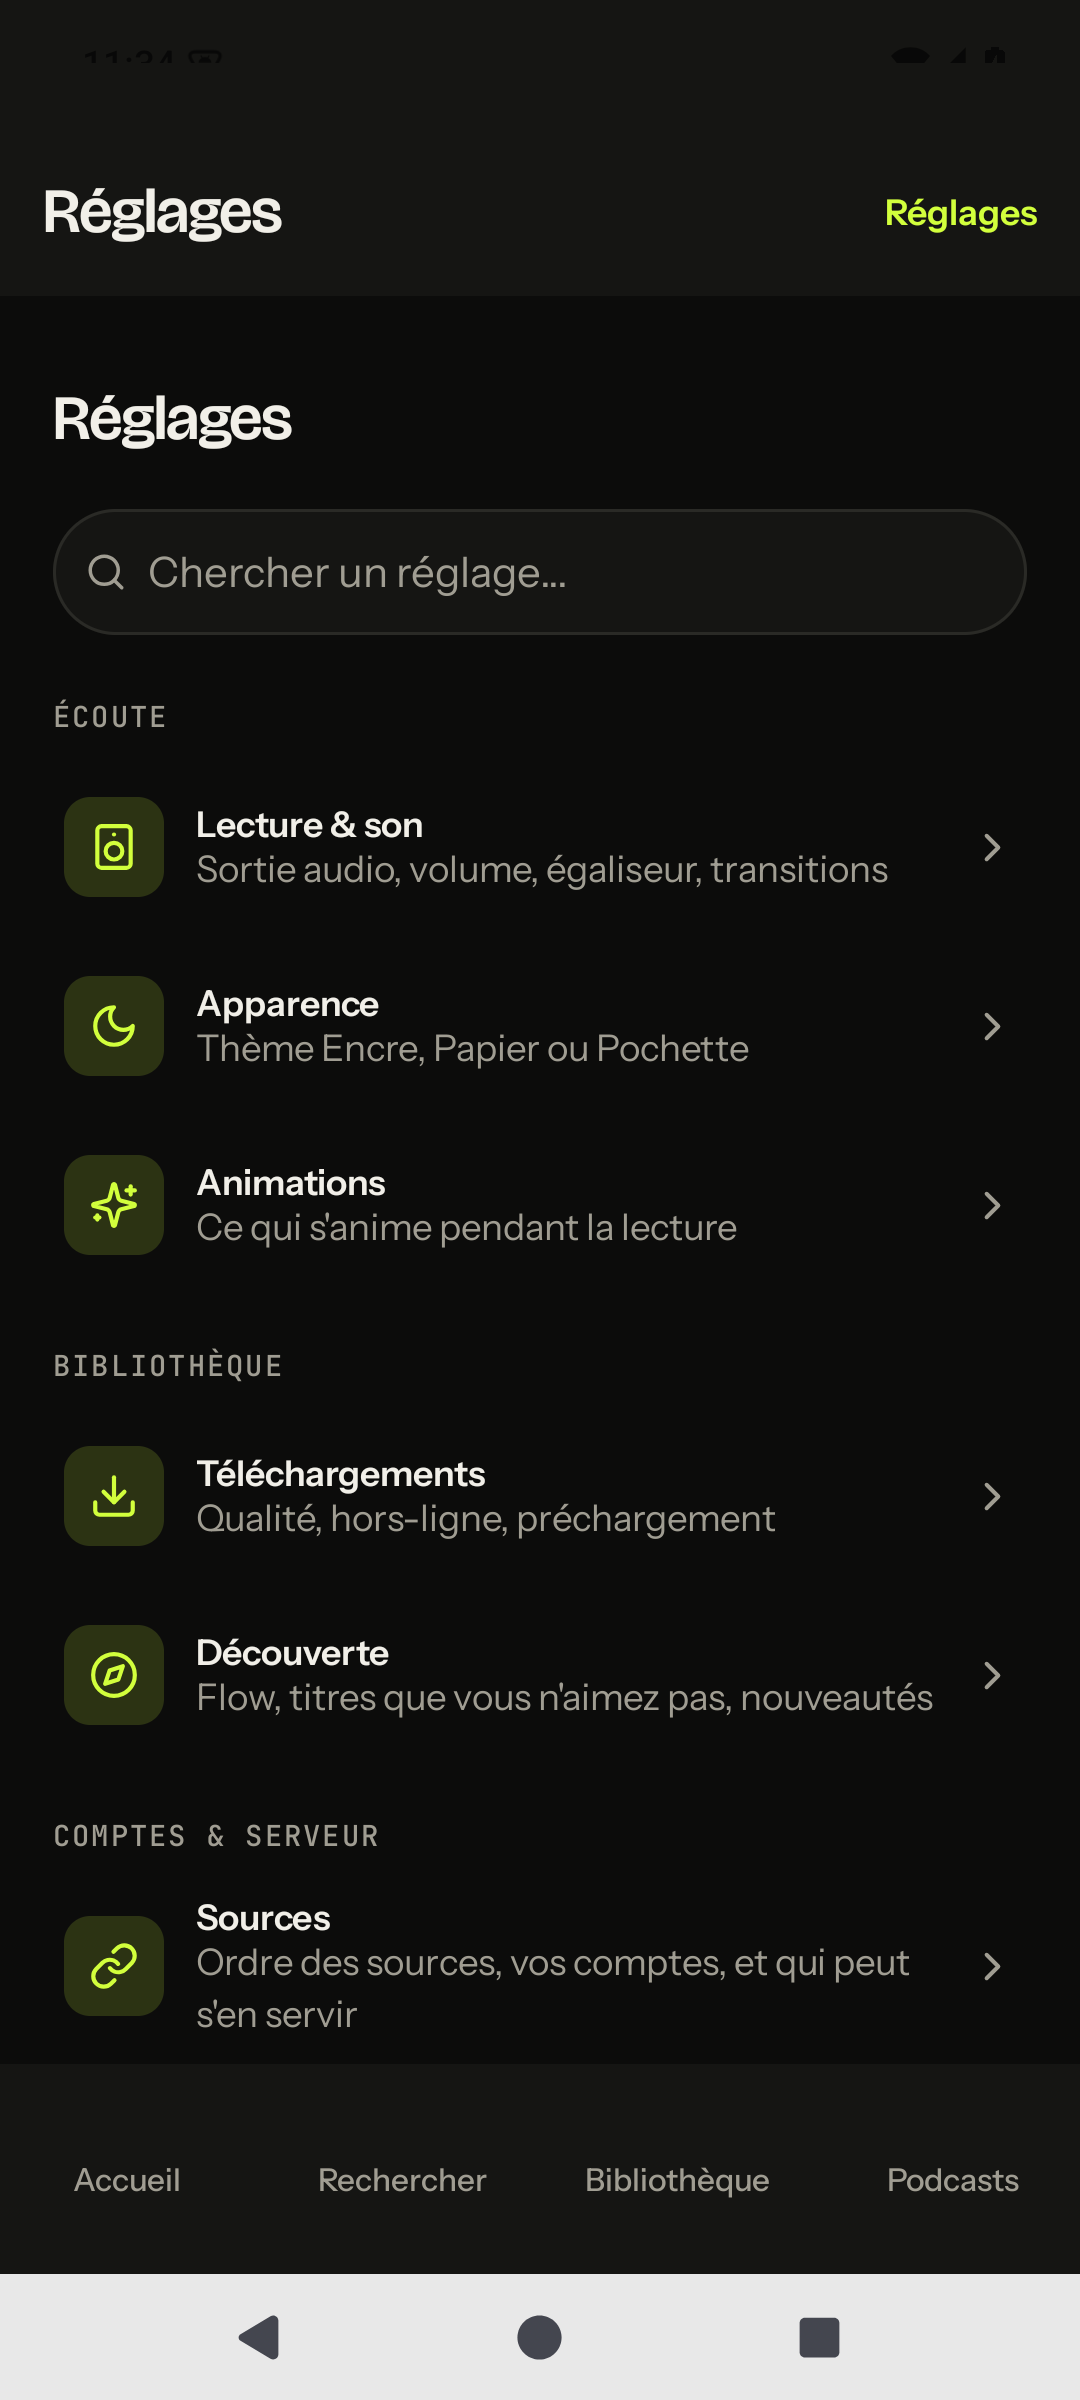
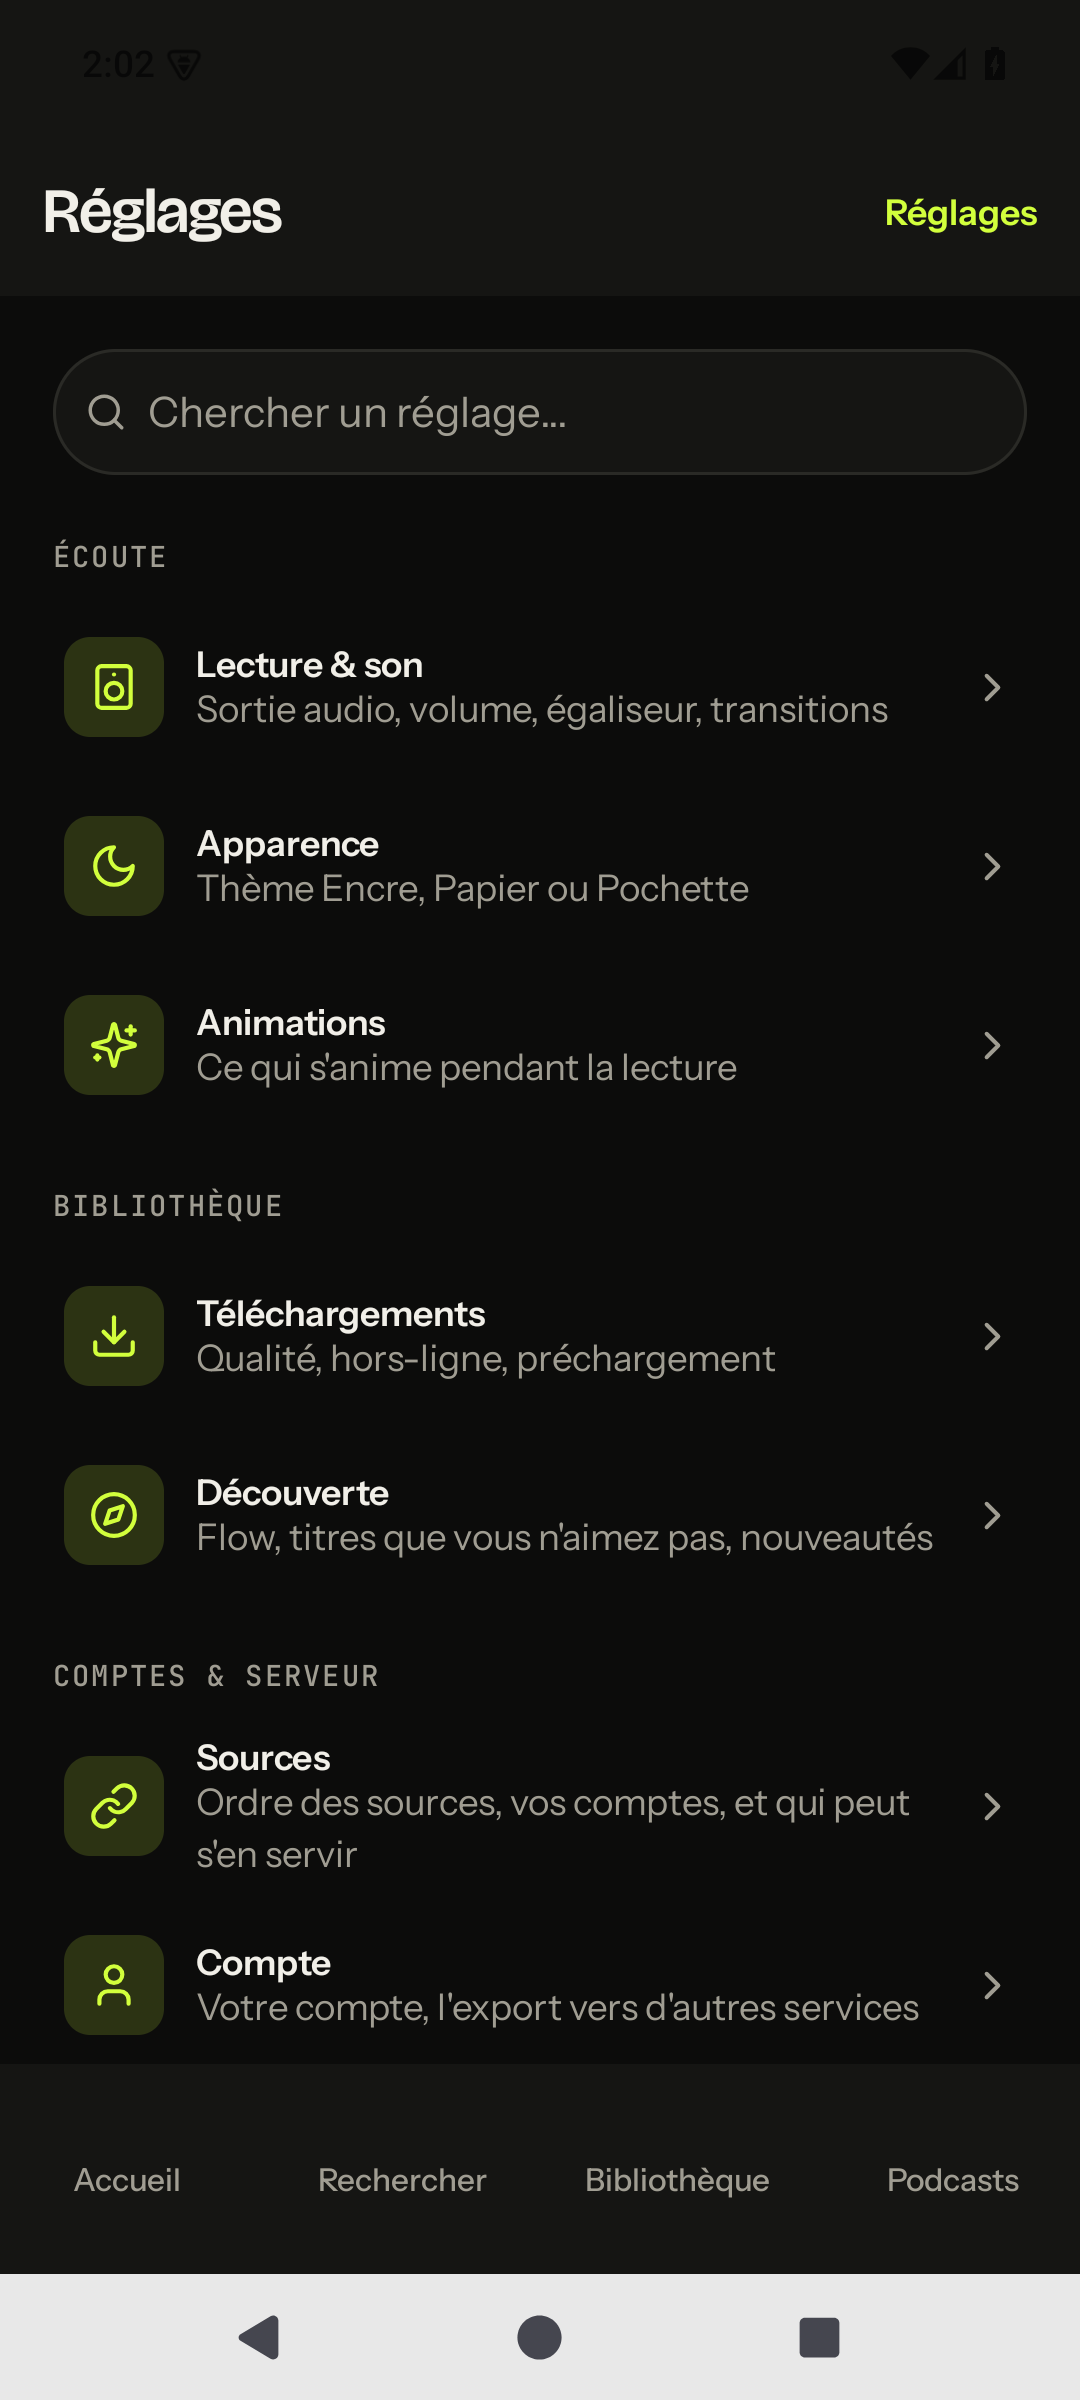
docs(mobile): MB16 les trois captures de l'émulateur
La liste, une catégorie, et Téléchargements — la section de MB15
hébergée par ce lot, dessinée par son propre code.

diff --git a/docs/agents/mobile.md b/docs/agents/mobile.md
@@ -3310,7 +3310,7 @@ LN14 adds one entry to that table plus one branch that calls its own composable;
 | One discovery drag | 3 moves, settle | **1 write** (`discover.level` = the last value), the value moving in every frame |
 | Kotlin | `:feature:settings:testDebugUnitTest` | **39 tests**: 13 `SettingsModelTest` (counts, the four states, optimistic + rollback, settle, clamping, the filter, the report), 2 `SettingsThemeSwitchTest`, 12 + 12 screenshot tests (360 dp / 600 dp) |
 | Screenshots | Robolectric, NATIVE graphics | **22 PNGs** under `docs/agents/screenshots/mobile/MB16/`: Encre/Papier/Pochette, 360 and 600 dp, the 200 % scale, a failure card — looked at, and three real layout bugs fixed from them (a switch's label squeezing a row, chips cut at 200 %, a lemon button on Papier) |
-| The real app | emulator API 35 x86_64, `-no-window -no-audio`, the CI APK installed | `mb16-emulator-list.png` and `mb16-emulator-apparence.png`: the two levels open, « Noyau (Rust) : 0.1.0 » read from `nz_version()`, and the doubled « Réglages » heading it exposed |
+| The real app | emulator API 35 x86_64, `-no-window -no-audio` (own port 5620), the CI APK installed | three captures: `mb16-emulator-list.png` (the menu), `mb16-emulator-apparence.png` (a category, its back arrow), and `mb16-emulator-downloads-mb15.png` — **MB15's `OfflineSettingsSection()` hosted** inside this lot's page, its quality card and storage gauge drawn by MB15's own code. The walk also read « Noyau (Rust) : 0.1.0 » from `nz_version()` on *Assistance*, and exposed the doubled « Réglages » heading this lot then removed |
 
 **Files.** `mobile/rust/crates/nz-core/src/settings/**`, `mobile/rust/crates/nz-ffi/src/settings.rs`,
 `mobile/rust/crates/nz-ffi/src/core.rs` (`settings()` builds over the core — the same one-line seam
